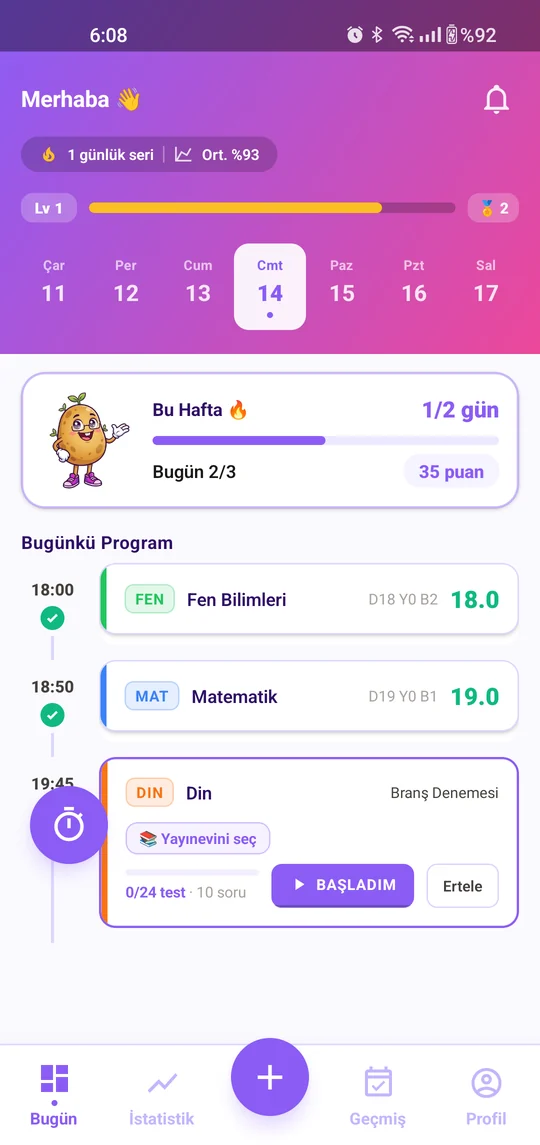
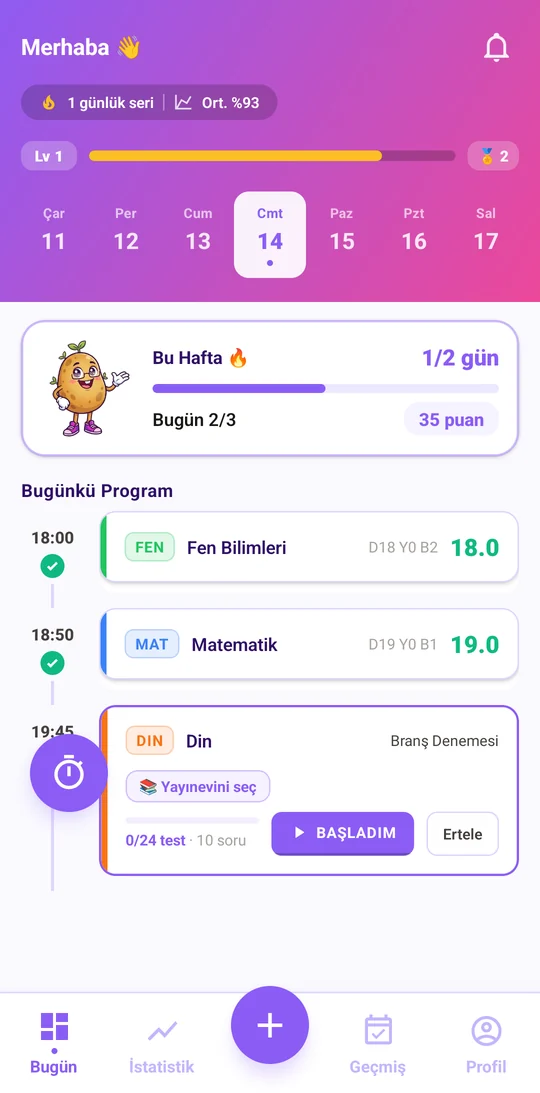
Ana sayfa: ekran görüntüsünden sistem çubuğu kırpıldı, çerçeve oranı düzeltildi

diff --git a/assets/site.css b/assets/site.css
@@ -80,8 +80,8 @@ a.kutu .ok{color:var(--accent);font-weight:700;font-size:14px;margin-top:10px;di
 .sahne{position:relative;display:flex;justify-content:center;min-height:540px}
 .telefon{position:relative;width:270px;aspect-ratio:9/19;border-radius:42px;padding:11px;background:#16102a;box-shadow:0 40px 80px -30px rgba(76,29,149,.55),0 0 0 1px rgba(0,0,0,.05)}
 .telefon.arka{position:absolute;width:236px;top:38px;transform:translateX(-60%) rotate(-6deg);-webkit-font-smoothing:subpixel-antialiased}
-.telefon.on{transform:translateX(26%)}
-.telefon img.gercek{display:block;width:100%;height:100%;object-fit:cover;object-position:top;border-radius:32px}
+.telefon.on{transform:translateX(26%);aspect-ratio:auto}
+.telefon img.gercek{display:block;width:100%;height:auto;border-radius:32px}
 .alarm{height:100%;border-radius:32px;overflow:hidden;position:relative;background:linear-gradient(170deg,#7c3aed 0%,#c026d3 55%,#ec4899 100%);display:flex;flex-direction:column;align-items:center;justify-content:center;text-align:center;color:#fff;padding:20px}
 .alarm .ust{position:absolute;top:16px;left:0;right:0;font-size:11px;opacity:.85}
 .alarm img{width:118px;height:118px;object-fit:contain;filter:drop-shadow(0 10px 20px rgba(0,0,0,.25))}

diff --git a/index.html b/index.html
@@ -42,7 +42,7 @@
   </div>
   <div class="sahne">
     <div class="telefon arka" aria-hidden="true"><div class="alarm"><div class="ust">Krononet · Deneme zamanı</div><img src="/img/odakli.webp" alt="" width="118" height="118"><div class="saat">19:45</div><div class="ders">LGS · Din Kültürü</div><div class="kaynak">Branş Denemesi · 10 soru</div><div class="b1">BAŞLIYORUM</div><div class="b2">10 dk ertele</div></div></div>
-    <div class="telefon on"><img class="gercek" src="/img/ekran-bugun.webp" alt="Krononet Bugün ekranı: Bu Hafta kartı, tamamlanan ve bekleyen denemeler" width="540" height="1145"></div>
+    <div class="telefon on"><img class="gercek" src="/img/ekran-bugun.webp?v=2" alt="Krononet Bugün ekranı: Bu Hafta kartı, tamamlanan ve bekleyen denemeler" width="540" height="1093"></div>
   </div>
 </div></section>
 
